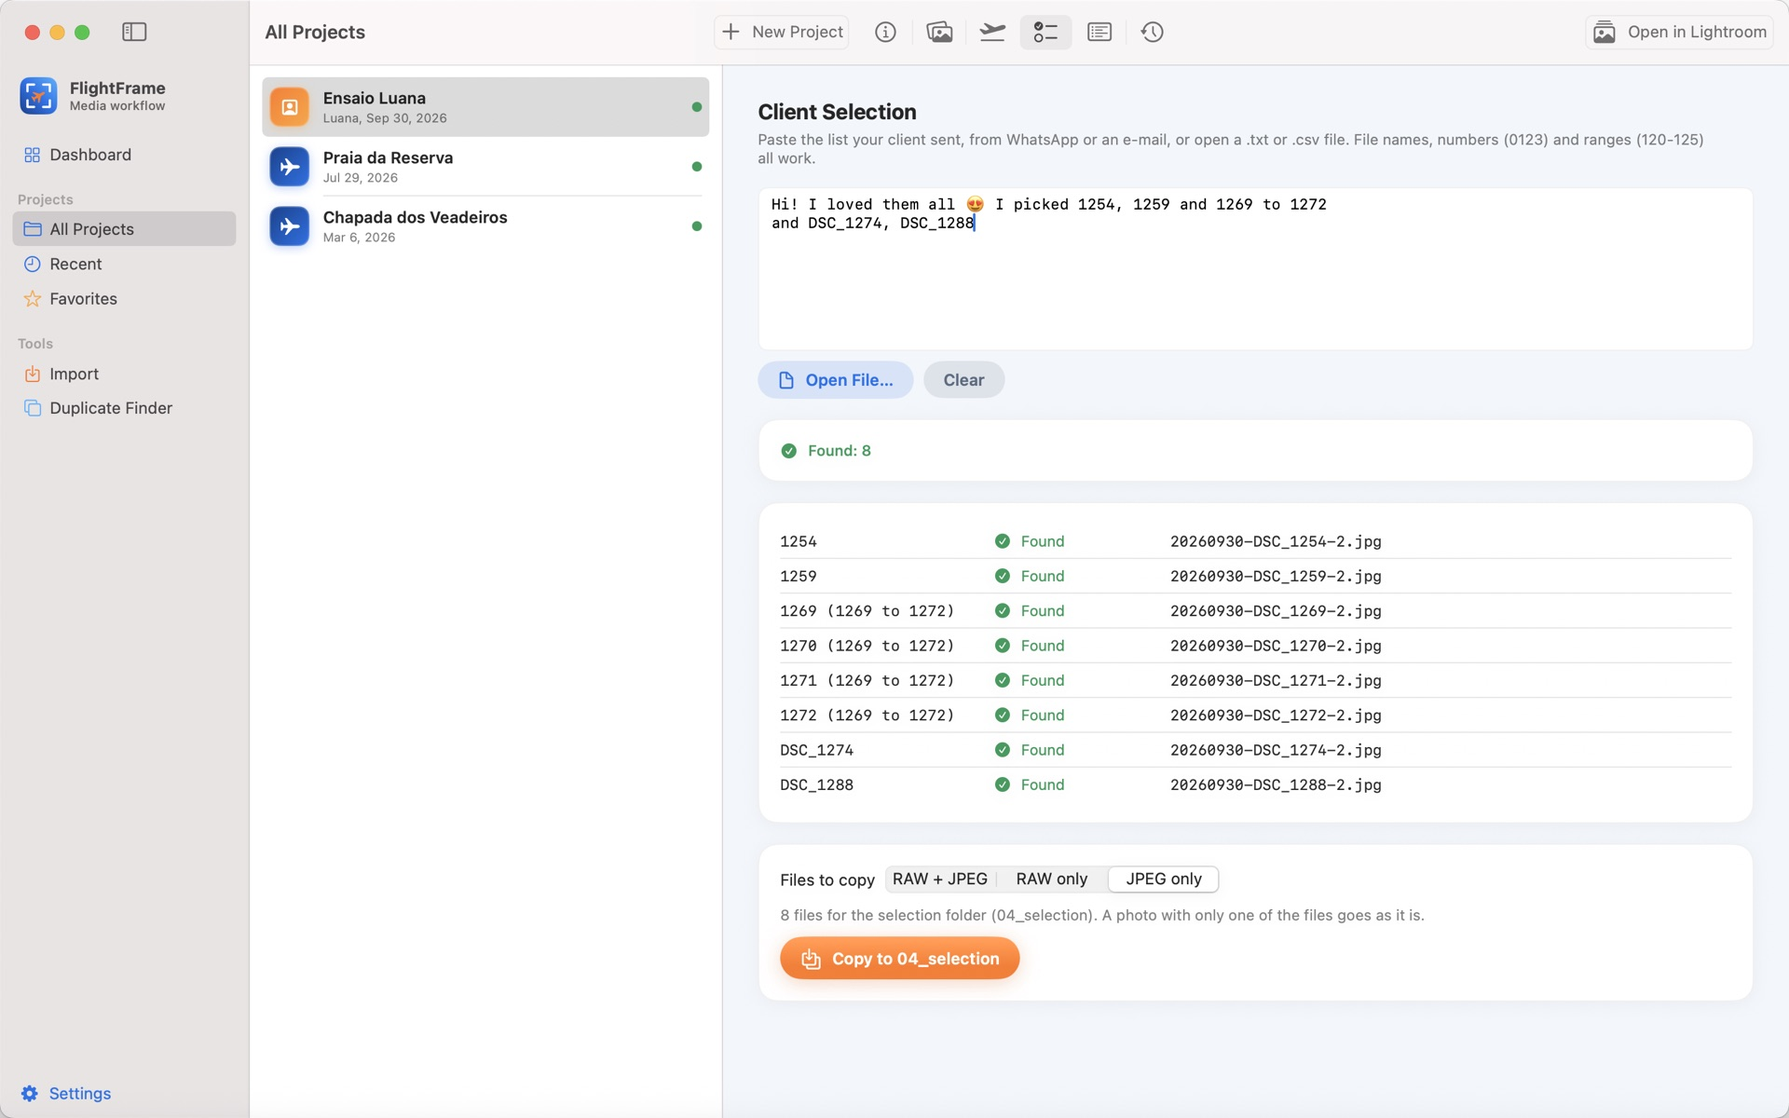
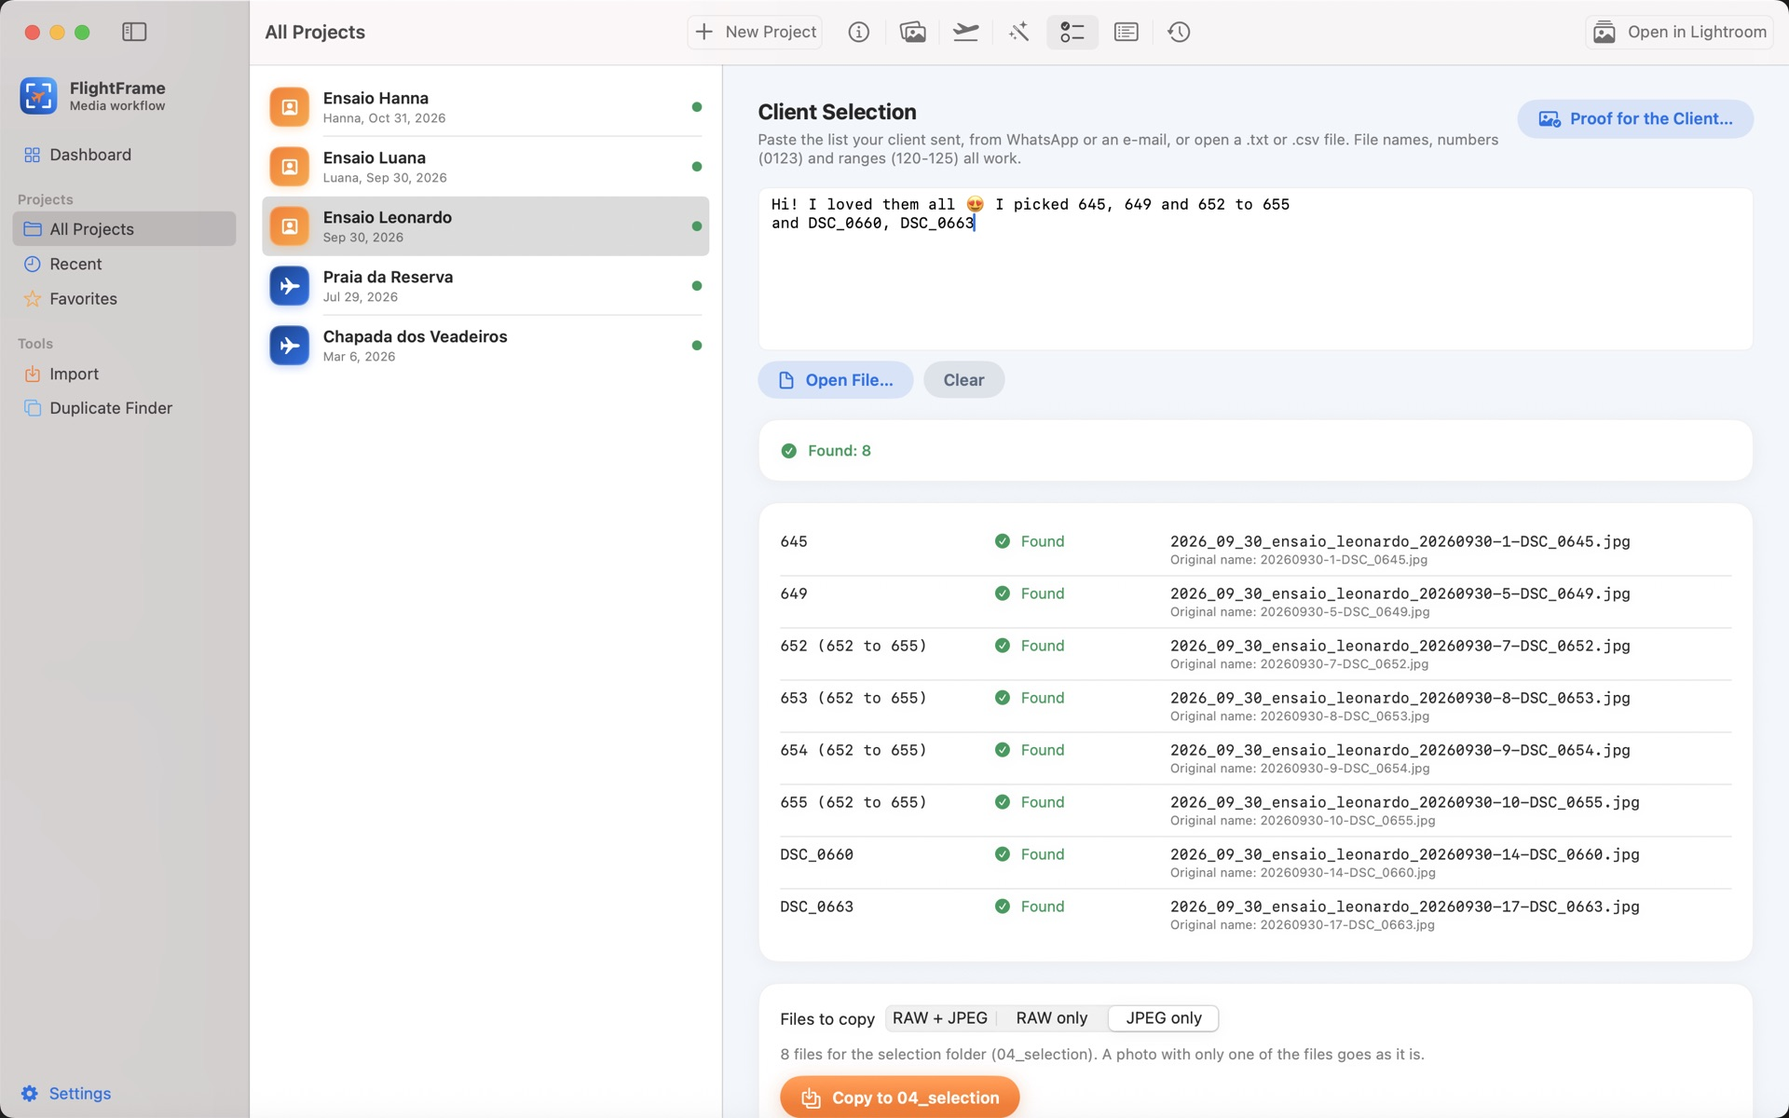
Present FlightFrame 2.0: culling, client proofs, deadlines and the new prices

diff --git a/index.html b/index.html
@@ -48,7 +48,7 @@
 <meta property="og:locale:alternate" content="en_US">
 <meta property="og:site_name" content="FlightFrame Studio">
 <meta property="og:title" content="FlightFrame Studio: do cartão ao projeto, com cada arquivo verificado">
-<meta property="og:description" content="Cópia conferida por checksum, backup em segundo disco, voos e sets organizados. Agora na Mac App Store.">
+<meta property="og:description" content="Cópia conferida por checksum, backup em segundo disco, pré-seleção com IA no seu Mac, prova para a cliente e prazos de entrega. Sem nuvem e sem assinatura.">
 <meta property="og:url" content="https://flightframe.ravendronevideos.com.br/">
 <meta property="og:image" content="https://flightframe.ravendronevideos.com.br/assets/og-image.jpg">
 <meta property="og:image:width" content="1200">
@@ -102,7 +102,7 @@
     <div class="wrap">
       <div class="hero-grid">
         <div>
-          <p class="eyebrow">Agora na Mac App Store</p>
+          <p class="eyebrow">Novo na 2.0: pré-seleção com IA, no seu Mac</p>
           <h1>Nunca mais perca um arquivo do cartão.</h1>
           <p class="lede">O FlightFrame Studio copia suas fotos e vídeos do cartão SD, confere cada arquivo com o original e entrega o projeto organizado, com backup e pronto para o Lightroom Classic. Para pilotos de drone e fotógrafos que não podem refazer um trabalho.</p>
           <div class="hero-actions">
@@ -338,8 +338,11 @@
         </div>
         <div class="aud">
           <h3>Para fotógrafos de ensaio</h3>
-          <p>O backup duplo que você promete no contrato, feito de verdade e conferido.</p>
+          <p>Do cartão à entrega sem retrabalho: o backup duplo que você promete no contrato, a pré-seleção e a seleção da cliente no mesmo app.</p>
           <ul class="benefits">
+            <li><strong>Pré-seleção com IA, no seu Mac</strong><span>As fotos tremidas e as mais fracas de cada série ficam separadas, sempre com o motivo, e olhos fechados são apontados para você conferir. A sugestão nunca decide sozinha, e nenhuma foto sai do computador.</span></li>
+            <li><strong>Prova para a cliente</strong><span>Fotos leves, numeradas e com marca d’água, mais uma folha de contato em PDF, prontas para o WhatsApp. Os números que ela responder voltam direto para a seleção.</span></li>
+            <li><strong>Prazos de entrega com lembrete</strong><span>O prazo de cada ensaio no Painel e um aviso dois dias antes de vencer. Grátis para todos.</span></li>
             <li><strong>Seleção da cliente pelo WhatsApp</strong><span>Cole a lista que ela mandou no WhatsApp ou por e-mail, ou abra uma planilha. Nomes, números e intervalos como “120 a 125” funcionam, e as fotos escolhidas são copiadas com conferência para a pasta de seleção.</span></li>
             <li><strong>Lightroom Classic organizado</strong><span>Coleções por set, uma coleção “Seleção da cliente”, palavras-chave do cliente e seu copyright prontos na importação.</span></li>
             <li><strong>Backup duplo na mesma importação</strong><span>Projeto e segundo disco ou NAS, ambos conferidos com o original.</span></li>
@@ -351,7 +354,7 @@
           </ul>
           <div class="window aud-shot">
             <div class="window-bar" aria-hidden="true"><i></i><i></i><i></i></div>
-            <img src="assets/screen-selection.jpg" width="1920" height="1200" loading="lazy" alt="Seleção da cliente com a lista colada do WhatsApp e as fotos encontradas no ensaio">
+            <img src="assets/screen-preselection.jpg" width="1920" height="1200" loading="lazy" alt="Pré-seleção de um ensaio com as fotos escolhidas, a série de fotos parecidas e a melhor de cada série">
           </div>
         </div>
       </div>
@@ -379,6 +382,8 @@
             <tr><td>Hora do drone corrigida</td><td class="no">Não</td><td class="yes">Sim</td></tr>
             <tr><td>Relatório de cada importação</td><td class="no">Não</td><td class="yes">Sim</td></tr>
             <tr><td>Lightroom já organizado</td><td class="no">Não</td><td class="yes">Com um clique</td></tr>
+            <tr><td>Pré-seleção das tremidas e da melhor de cada série</td><td class="no">Não</td><td class="yes">Sim, no seu Mac</td></tr>
+            <tr><td>Prova numerada para a cliente</td><td class="no">Não</td><td class="yes">Sim</td></tr>
             <tr><td>Seleção da cliente pela mensagem</td><td class="no">Não</td><td class="yes">Sim</td></tr>
             <tr><td>Mapa e diário de cada voo</td><td class="no">Não</td><td class="yes">Sim</td></tr>
           </tbody>
@@ -422,12 +427,13 @@
             <li>Voos e sets detectados automaticamente</li>
             <li>Duplicatas no cartão antes de copiar</li>
             <li>Mapa com o trajeto de cada voo</li>
+            <li>Prazos de entrega com lembrete</li>
           </ul>
           <a class="btn btn-quiet" href="https://apps.apple.com/app/flightframe-studio/id6822035026">Baixar grátis</a>
         </div>
         <div class="plan pro">
           <h3>FlightFrame Pro</h3>
-          <p class="price"><s>R$ 149,90</s>R$ 99,90<small>pagamento único, preço de lançamento</small></p>
+          <p class="price">R$ 149,90<small>pagamento único, sem assinatura</small></p>
           <ul>
             <li>Tudo do plano grátis</li>
             <li>Backup conferido em segundo disco ou NAS</li>
@@ -435,6 +441,8 @@
             <li>Hora do drone corrigida nas cópias</li>
             <li>Autoria e palavras-chave nas cópias</li>
             <li>Abrir no Lightroom com coleções por voo ou set</li>
+            <li>Pré-seleção com IA, no seu Mac</li>
+            <li>Prova para a cliente com marca d’água</li>
             <li>Seleção da cliente pelo WhatsApp, e-mail ou planilha</li>
             <li>KML, GPX, diário de voo e relatório PDF</li>
             <li>Conferência das autorizações do SARPAS e da FAA</li>
@@ -475,10 +483,12 @@
         <details><summary>Funciona com o Lightroom da nuvem?</summary><p>A integração com um clique é só para o Lightroom Classic, porque a versão baseada na nuvem não aceita plugins. As pastas organizadas e a hora corrigida nas cópias continuam valendo para qualquer editor.</p></details>
         <details><summary>Preciso mudar meu jeito de trabalhar no Lightroom?</summary><p>Não. O FlightFrame Studio entrega as fotos ao seu catálogo de sempre, com as coleções e os metadados já prontos. Seus presets e sua forma de editar continuam os mesmos.</p></details>
         <details><summary>Como funciona a seleção da cliente?</summary><p>Copie a lista que a cliente mandou no WhatsApp ou por e-mail e cole na aba Seleção do ensaio, ou abra um arquivo .txt ou .csv. O FlightFrame Studio encontra cada foto pelo nome ou pelo número, mesmo depois de renomeada ou exportada, avisa o que não encontrou e copia as escolhidas, conferidas, para a pasta de seleção. No Lightroom Classic, elas aparecem na coleção “Seleção da cliente”.</p></details>
+        <details><summary>Como funciona a pré-seleção com IA?</summary><p>Depois de cada importação de ensaio, o FlightFrame Studio analisa as fotos no próprio Mac: separa as tremidas, agrupa as séries parecidas e indica a melhor de cada uma, e aponta olhos fechados para você conferir. Cada sugestão vem com o motivo, e você aceita, troca ou ignora. Nenhuma foto é enviada para a nuvem, e no Lightroom Classic as suas escolhas aparecem como bandeiras e na coleção “Pré-seleção”.</p></details>
+        <details><summary>Como mando a prova para a cliente?</summary><p>Na aba Seleção, clique em Prova para a Cliente e escolha todas as fotos ou só as escolhidas na pré-seleção. O app gera JPEGs leves, numerados e com a sua marca d’água, mais uma folha de contato em PDF. Envie pelo WhatsApp e, quando ela responder com os números, cole a mensagem na aba Seleção: as fotos certas são encontradas e copiadas.</p></details>
         <details><summary>Quais câmeras e drones são compatíveis?</summary><p>Drones DJI, inclusive os arquivos .SRT de telemetria e os vídeos 360°, e os formatos RAW que o macOS reconhece, como DNG, NEF, CR3 e ARW, além de JPEG, HEIC e vídeos MP4 e MOV.</p></details>
         <details><summary>Onde baixo o FlightFrame Studio?</summary><p>Na <a href="https://apps.apple.com/app/flightframe-studio/id6822035026">Mac App Store</a>, de graça. As atualizações chegam pela App Store, como em qualquer app do Mac.</p></details>
         <details><summary>O FlightFrame Studio confere minha autorização do SARPAS?</summary><p>Sim, de forma informativa. Você importa a autorização pelo número do protocolo, e o app compara cada voo com as datas, o horário, a área, a altura e a aeronave autorizados. A consulta envia só o número do protocolo, e a responsabilidade pelo voo continua sendo do piloto.</p></details>
-        <details><summary>É uma assinatura?</summary><p>Não. O download é grátis, e o FlightFrame Pro é uma compra única pela App Store, com as atualizações incluídas.</p></details>
+        <details><summary>É uma assinatura?</summary><p>Não. O download é grátis, e o FlightFrame Pro é uma compra única de R$ 149,90 pela App Store, com as atualizações incluídas. Ferramentas de seleção com IA costumam cobrar todo ano; aqui você paga uma vez.</p></details>
         <details><summary>O teste de 14 dias cobra alguma coisa?</summary><p>Não. O teste é gratuito, não renova sozinho e nunca é cobrado. Quando termina, os recursos Pro voltam a ficar bloqueados, e seus projetos e arquivos continuam intactos.</p></details>
         <details><summary>Posso usar em mais de um Mac?</summary><p>Sim. A compra fica na sua Conta Apple. Em outro Mac, é só baixar o app e tocar em Restaurar Compras.</p></details>
         <details><summary>E se o disco de backup estiver desconectado?</summary><p>A cópia do projeto acontece normalmente, e o FlightFrame Studio avisa que o backup ficou pendente. Depois, um clique refaz só o que faltou.</p></details>

diff --git a/en/index.html b/en/index.html
@@ -48,7 +48,7 @@
 <meta property="og:locale:alternate" content="pt_BR">
 <meta property="og:site_name" content="FlightFrame Studio">
 <meta property="og:title" content="FlightFrame Studio: from card to project, every file verified">
-<meta property="og:description" content="Checksum-verified copies, a verified backup on a second drive, flights and sets organized. Now on the Mac App Store.">
+<meta property="og:description" content="Checksum-verified copies, a verified backup on a second drive, on-device AI culling, client proofs and delivery deadlines. No cloud, no subscription.">
 <meta property="og:url" content="https://flightframe.ravendronevideos.com.br/en/">
 <meta property="og:image" content="https://flightframe.ravendronevideos.com.br/assets/en/og-image.jpg">
 <meta property="og:image:width" content="1200">
@@ -105,7 +105,7 @@
     <div class="wrap">
       <div class="hero-grid">
         <div>
-          <p class="eyebrow">Now on the Mac App Store</p>
+          <p class="eyebrow">New in 2.0: AI culling, right on your Mac</p>
           <h1>Never lose a file from your card again.</h1>
           <p class="lede">FlightFrame Studio offloads your photos and videos from the SD card, checks every file against the original and hands you an organized project, backed up and ready for Lightroom Classic. Built for drone pilots and photographers who can’t reshoot the job.</p>
           <div class="hero-actions">
@@ -341,8 +341,11 @@
         </div>
         <div class="aud">
           <h3>For portrait photographers</h3>
-          <p>The double backup you promise in your contract, actually done and verified.</p>
+          <p>From card to delivery without redoing work: the double backup you promise in your contract, culling and client selection in one app.</p>
           <ul class="benefits">
+            <li><strong>AI culling, right on your Mac</strong><span>Blurry shots and the weaker frames of each series are set aside, always with a reason, and closed eyes are flagged for you to check. Suggestions never decide on their own, and no photo leaves your computer.</span></li>
+            <li><strong>Client proofs</strong><span>Light, numbered, watermarked photos plus a PDF contact sheet, ready to text. The numbers your client sends back go straight into the selection.</span></li>
+            <li><strong>Delivery deadlines with reminders</strong><span>Every session’s due date on the Dashboard and a heads-up two days before it’s due. Free for everyone.</span></li>
             <li><strong>Client selection from a text</strong><span>Paste the list your client texted or emailed, or open a spreadsheet. File names, numbers and ranges like “120 to 125” all work, and the photos they picked are copied, verified, to your selects folder.</span></li>
             <li><strong>Lightroom Classic, organized</strong><span>Collections by set, a “Client selection” collection, client keywords and your copyright, ready on import.</span></li>
             <li><strong>Double backup in one import</strong><span>Your project and a second drive or NAS, both verified against the original.</span></li>
@@ -354,7 +357,7 @@
           </ul>
           <div class="window aud-shot">
             <div class="window-bar" aria-hidden="true"><i></i><i></i><i></i></div>
-            <img src="../assets/en/screen-selection.jpg" width="1920" height="1200" loading="lazy" alt="Client selection with a list pasted from a text message and the photos found in the session">
+            <img src="../assets/en/screen-preselection.jpg" width="1920" height="1200" loading="lazy" alt="Culling a portrait session, with the picks, a series of similar shots and the best of each series">
           </div>
         </div>
       </div>
@@ -382,6 +385,8 @@
             <tr><td>Drone time corrected</td><td class="no">No</td><td class="yes">Yes</td></tr>
             <tr><td>A report for every import</td><td class="no">No</td><td class="yes">Yes</td></tr>
             <tr><td>Lightroom already organized</td><td class="no">No</td><td class="yes">In one click</td></tr>
+            <tr><td>Culls blurry shots and picks the best of each series</td><td class="no">No</td><td class="yes">Yes, on your Mac</td></tr>
+            <tr><td>Numbered client proofs</td><td class="no">No</td><td class="yes">Yes</td></tr>
             <tr><td>Client selection from a text</td><td class="no">No</td><td class="yes">Yes</td></tr>
             <tr><td>Map and log for every flight</td><td class="no">No</td><td class="yes">Yes</td></tr>
           </tbody>
@@ -425,6 +430,7 @@
             <li>Flights and sets detected automatically</li>
             <li>Duplicates on the card before you copy</li>
             <li>A map with each flight’s track</li>
+            <li>Delivery deadlines with reminders</li>
           </ul>
           <a class="btn btn-quiet" href="https://apps.apple.com/us/app/flightframe-studio/id6822035026">Download free</a>
         </div>
@@ -438,6 +444,8 @@
             <li>Drone time corrected in the copies</li>
             <li>Authorship and keywords in the copies</li>
             <li>Open in Lightroom with collections by flight or set</li>
+            <li>AI culling, right on your Mac</li>
+            <li>Watermarked client proofs</li>
             <li>Client selection from a text, email or spreadsheet</li>
             <li>KML, GPX, flight log and PDF report</li>
             <li>LAANC, Part 107 and SARPAS authorization checks</li>
@@ -478,10 +486,12 @@
         <details><summary>Does it work with the cloud-based Lightroom?</summary><p>The one-click integration is for Lightroom Classic only, because the cloud-based version doesn’t support plug-ins. The organized folders and the corrected time in the copies work with any editor.</p></details>
         <details><summary>Do I have to change how I work in Lightroom?</summary><p>No. FlightFrame Studio delivers your photos to the same catalog you always use, with collections and metadata already in place. Your presets and your editing stay the same.</p></details>
         <details><summary>How does client selection work?</summary><p>Copy the list your client sent, from a text, iMessage, WhatsApp or email, and paste it into the session’s Selection tab, or open a .txt or .csv file. FlightFrame Studio finds each photo by name or number, even after renaming or exporting, tells you what it couldn’t find and copies the picks, verified, to the selects folder. In Lightroom Classic, they show up in a “Client selection” collection.</p></details>
+        <details><summary>How does AI culling work?</summary><p>After each portrait import, FlightFrame Studio analyzes the photos on your Mac: it sets aside blurry shots, groups similar series and points out the best of each, and flags closed eyes for you to check. Every suggestion comes with a reason, and you accept, change or ignore it. No photo is uploaded to the cloud, and in Lightroom Classic your choices show up as flags and in a “Pre-selection” collection.</p></details>
+        <details><summary>How do I send proofs to my client?</summary><p>In the Selection tab, click Proof for the Client and choose all photos or only your culling picks. The app makes light, numbered JPEGs with your watermark, plus a PDF contact sheet. Send them by text or email, and when your client replies with the numbers, paste the reply in the Selection tab: the right photos are found and copied.</p></details>
         <details><summary>Which cameras and drones are supported?</summary><p>DJI drones, including .SRT telemetry files and 360° video, and the RAW formats macOS recognizes, like DNG, NEF, CR3 and ARW, plus JPEG, HEIC and MP4 and MOV video.</p></details>
         <details><summary>Does FlightFrame Studio check my LAANC authorization?</summary><p>Yes, for your information. Paste or type your LAANC confirmation and the app compares each flight with the authorized dates, times, area and altitude, along with Part 107’s 400 ft limit. Turn on FAA Facility Maps to see the ceiling in controlled airspace. Only the takeoff position is looked up, and you’re still the remote pilot in command.</p></details>
         <details><summary>Where do I download FlightFrame Studio?</summary><p>On the <a href="https://apps.apple.com/us/app/flightframe-studio/id6822035026">Mac App Store</a>, for free. Updates come through the App Store, like any other Mac app.</p></details>
-        <details><summary>Is it a subscription?</summary><p>No. The download is free, and FlightFrame Pro is a one-time purchase of $79.99 through the App Store, with updates included.</p></details>
+        <details><summary>Is it a subscription?</summary><p>No. The download is free, and FlightFrame Pro is a one-time purchase of $79.99 through the App Store, with updates included. AI culling tools usually bill you every year; here you pay once.</p></details>
         <details><summary>Does the 14-day trial charge me anything?</summary><p>No. The trial is free, doesn’t renew on its own and is never charged. When it ends, the Pro features lock again, and your projects and files stay exactly as they are.</p></details>
         <details><summary>Can I use it on more than one Mac?</summary><p>Yes. Your purchase is tied to your Apple Account. On another Mac, just download the app and click Restore Purchases.</p></details>
         <details><summary>What if my backup drive isn’t connected?</summary><p>The project copy goes ahead as usual, and FlightFrame Studio lets you know the backup is still pending. Later, one click copies just what’s missing.</p></details>

diff --git a/LEIA-ME.md b/LEIA-ME.md
@@ -3,12 +3,12 @@
 Arquivos para o repositório do site (`flightframe`), publicado pelo GitHub Pages em
 `https://flightframe.ravendronevideos.com.br`.
 
-## Situação atual (31/10/2026)
+## Situação atual (4/11/2026)
 
-- **Na Mac App Store:** FlightFrame Studio **1.8** (com a seleção da cliente), Apple ID `6822035026`.
+- **Na Mac App Store:** FlightFrame Studio **2.0** (pré-seleção com IA, prova para a cliente e prazos de entrega), Apple ID `6822035026`.
 - **Duas línguas:** `index.html` em português e `en/index.html` em inglês, para o mercado americano
   (preço do Pro em dólar: **$79.99** desde a 2.0, links `apps.apple.com/us/...`). As capturas ficam em `assets/`
-  (português) e `assets/en/` (inglês), as mesmas da loja na 1.8, e cada língua tem a sua imagem de
+  (português) e `assets/en/` (inglês), as mesmas da loja na 2.0 (redimensionadas para 1920 px a partir de `docs/AppStore/2.0/capturas-*` do repositório do app), e cada língua tem a sua imagem de
   prévia de links (`og-image.jpg`). Numa versão nova, troque as capturas e as prévias das duas línguas. Privacidade e suporte têm a parte em inglês na mesma página
   (`#english`). Ao mudar um texto, mude nas duas línguas.
   Botões de download: `https://apps.apple.com/app/flightframe-studio/id6822035026`.
@@ -25,9 +25,8 @@ ao lado do item (o estilo está em `styles.css`). Quando a versão sair, apague 
 
 ## Manter atualizado
 
-- **Preços:** a seção `#precos` mostra o preço de lançamento (R$ 99,90, de R$ 149,90). Confira se é o
-  mesmo valor do FlightFrame Pro no App Store Connect. Quando o lançamento acabar, troque por
-  R$ 149,90 e tire o valor riscado.
+- **Preços:** a seção `#precos` mostra R$ 149,90 (desde a 2.0; o preço de lançamento de R$ 99,90 acabou),
+  também na dúvida "É uma assinatura?". Confira se é o mesmo valor do FlightFrame Pro no App Store Connect.
 - **Preços em dólar:** o `en/index.html` mostra $79.99 (no topo, nos preços, nas dúvidas e no bloco
   `ld+json`). Se o preço mudar no App Store Connect, mude nos quatro lugares.
 - **Selo da Mac App Store em inglês:** `assets/mac-app-store-badge-en.svg`, o oficial preto dos EUA,
